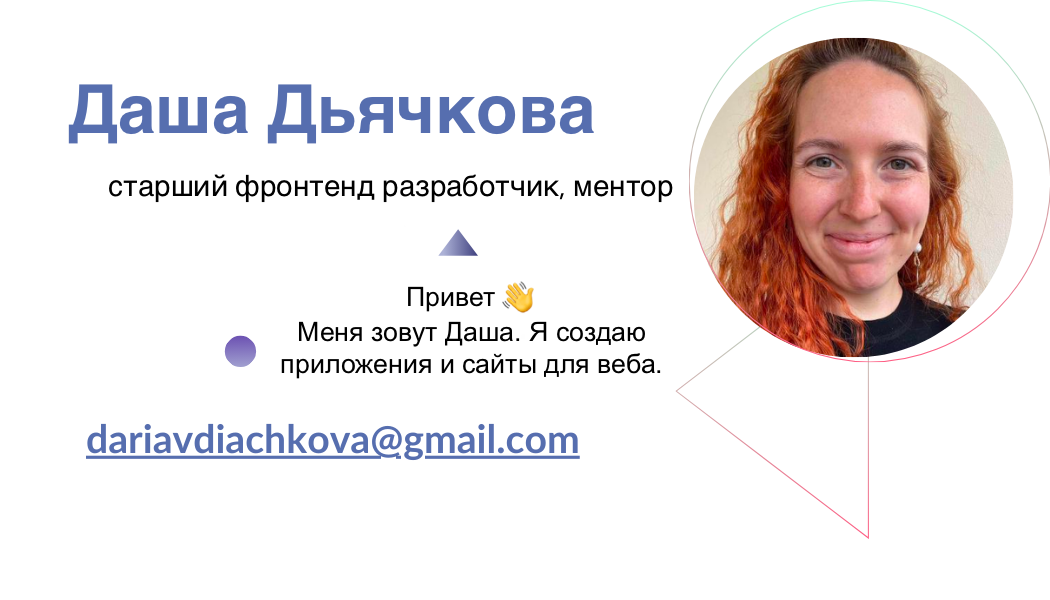
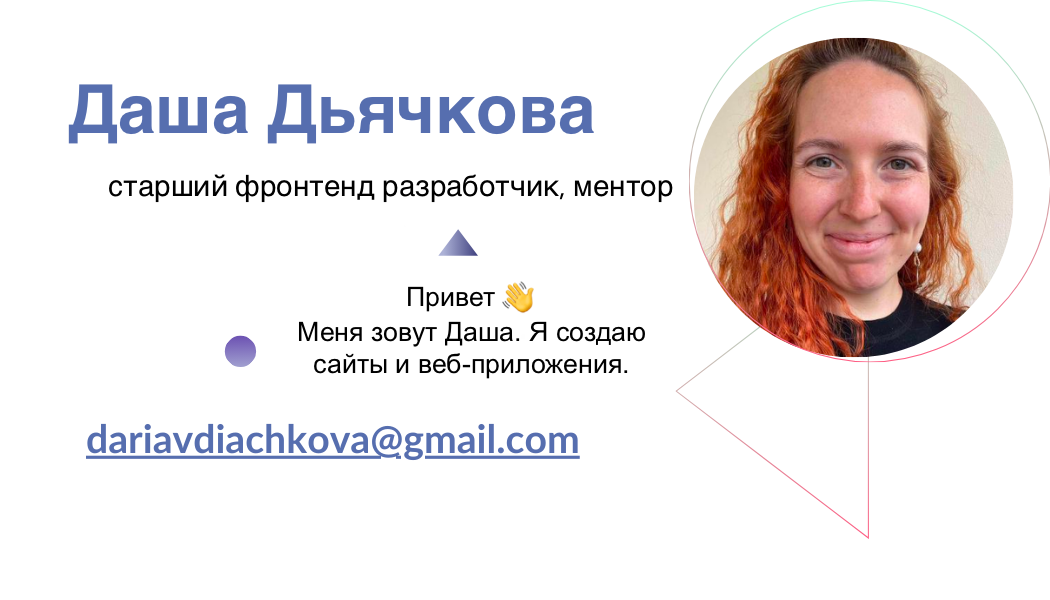
update texts

Changed region(s): [[0.2743, 0.57, 0.64, 0.63]]

diff --git a/src/components/sections/me.js b/src/components/sections/me.js
@@ -50,7 +50,7 @@ const Me = () => {
   const introItems = [
     <h1 className="heading-caption">Привет, меня зовут</h1>,
     <h2 className="heading-main">Дьячкова Даша</h2>,
-    <h3 className="subheading-main">Я создаю сайты и приложения для веба.</h3>,
+    <h3 className="subheading-main">Я создаю сайты и веб-приложения.</h3>,
   ]
 
   return (
